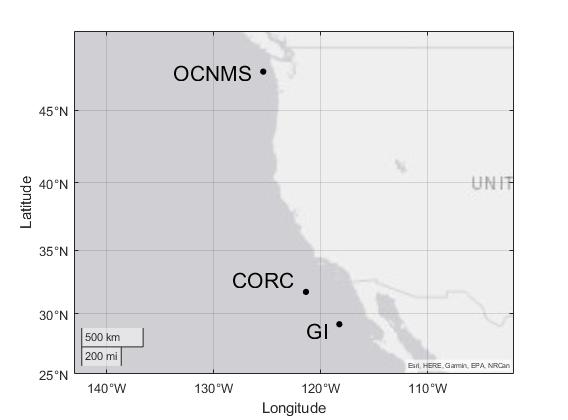
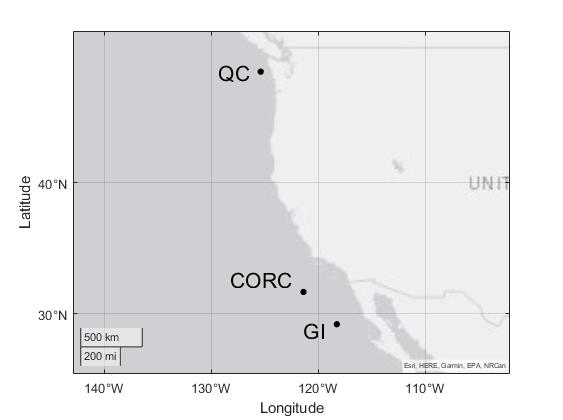
Changed QC abbrev in site map and updated Sum code for QC

diff --git a/SumPPICIBin_preR_step2.m b/SumPPICIBin_preR_step2.m
@@ -2,12 +2,12 @@ clearvars
 close all
 
 %% Parameters defined by user
-filePrefix = 'Saipan'; % File name to match. 
-siteabrev = 'SAP'; %abbreviation of site.
+filePrefix = 'OCNMS06QC'; % File name to match. 
+siteabrev = 'QC'; %abbreviation of site.
 sp = 'Pm'; % your species code
 srate = 200; % sample rate
-effortXls = 'G:\My Drive\CentralPac_TPWS_metadataReduced\Saipan\Pm_Effort.xlsx'; % specify excel file with effort times
-saveDir = 'G:\My Drive\CentralPac_TPWS_metadataReduced\Saipan\Seasonality'; %specify directory to save files
+effortXls = 'G:\My Drive\CCE_TPWS_metadataReduced\QC\Pm_Effort.xlsx'; % specify excel file with effort times
+saveDir = 'G:\My Drive\CCE_TPWS_metadataReduced\QC\Seasonality'; %specify directory to save files
 %% load workspace
 load([saveDir,'\',siteabrev,'_workspace125.mat']);
 %% group data by 5min bins, days, weeks, and seasons 
@@ -94,7 +94,13 @@ if strcmp(siteabrev,'SAP');
     ge = ge/288; %proportion of data that was not ships if it were full recording effort
     dayTable.Effort_Bin(614:2380) = ge * 206; %for TIN04, 05, 06, 07, 08, and 09 5 on 2 off (7 minute cycle) -- meaning you're recording 0.714 percent of the time
     dayTable.Effort_Sec(614:2380) = dayTable.Effort_Bin(614:2380) * 5 * 60; %convert from bins into efforts in seconds per day
-        else 
+    else 
+if strcmp(siteabrev,'QC');
+    ge = dayTable.Effort_Bin(3:349); %bin effort (excluding ships but not considering duty cycle)
+    ge = ge/288; %proportion of data that was not ships if it were full recording effort
+    dayTable.Effort_Bin(3:349) = ge * 41; %for QC06 5 on 30 off (35 minute cycle) -- meaning you're recording 0.143 percent of the time
+    dayTable.Effort_Sec(3:349) = dayTable.Effort_Bin(3:349) * 5 * 60; %convert from bins into efforts in seconds per day
+    else
 dayTable.MaxEffort_Bin = ones(p,1)*(288);
       end
     end
@@ -102,6 +108,7 @@ end
 end
     end
 end 
+end
 end
 
 %two ways to account for the difference in effort..

diff --git a/sitemapHabMod.m b/sitemapHabMod.m
@@ -131,7 +131,7 @@ gm = geoscatter(latitude,longitude,A,'.','k');
 text(latitude(1),longitude(1)-1,'BD','HorizontalAlignment','right','FontSize',16);
 text(latitude(2)+0.5,longitude(2)-1,'CB','HorizontalAlignment','right','FontSize',16);
 text(latitude(3)+1,longitude(3)-1,'CORC','HorizontalAlignment','right','FontSize',16);
-text(latitude(4),longitude(4)-1,'OCNMS','HorizontalAlignment','right','FontSize',16);
+text(latitude(4),longitude(4)-1,'QC','HorizontalAlignment','right','FontSize',16);
 text(latitude(5),longitude(5)+8.5,'PT','HorizontalAlignment','right','FontSize',16);
 text(latitude(6),longitude(6)-1.5,'QN','HorizontalAlignment','right','FontSize',16);
 text(latitude(7)+3.5,longitude(7)+20,'SAIPAN','HorizontalAlignment','right','FontSize',16);
@@ -166,7 +166,7 @@ latitude = LatLongTAB.Latitude;
 longitude = LatLongTAB.Longitude;
 gm = geoscatter(latitude,longitude,A,'.','k');  
 text(latitude(3)+1,longitude(3)-1,'CORC','HorizontalAlignment','right','FontSize',16);
-text(latitude(4),longitude(4)-1,'OCNMS','HorizontalAlignment','right','FontSize',16);
+text(latitude(4),longitude(4)-1,'QC','HorizontalAlignment','right','FontSize',16);
 text(latitude(10)-0.5,longitude(10)-1,'GI','HorizontalAlignment','right','FontSize',16);
 geolimits([25 50],[-130 -115]);
 set(gcf,'Color','w');

diff --git a/SumPPICIBin_createWorkspace_step1.m b/SumPPICIBin_createWorkspace_step1.m
@@ -2,14 +2,14 @@ clearvars
 close all
 
 %% Parameters defined by user
-filePrefix = 'Saipan'; % File name to match. 
-siteabrev = 'SAP'; %abbreviation of site.
+filePrefix = 'OCNMS06QC'; % File name to match. 
+siteabrev = 'QC'; %abbreviation of site.
 sp = 'Pm'; % your species code
 itnum = '2'; % which iteration you are looking for
 srate = 200; % sample rate
-tpwsPath = 'G:\My Drive\CentralPac_TPWS_metadataReduced\Saipan\TPWS_125'; %directory of TPWS files
-effortXls = 'G:\My Drive\CentralPac_TPWS_metadataReduced\Saipan\Pm_Effort.xlsx'; % specify excel file with effort times
-saveDir = 'G:\My Drive\CentralPac_TPWS_metadataReduced\Saipan\Seasonality'; %specify directory to save files
+tpwsPath = 'G:\My Drive\CCE_TPWS_metadataReduced\QC\TPWS_125'; %directory of TPWS files
+effortXls = 'G:\My Drive\CCE_TPWS_metadataReduced\QC\Pm_Effort.xlsx'; % specify excel file with effort times
+saveDir = 'G:\My Drive\CCE_TPWS_metadataReduced\QC\Seasonality'; %specify directory to save files
 %% define subfolder that fit specified iteration
 if itnum > 1
    for id = 2: str2num(itnum) % iterate id times according to itnum

diff --git a/StackedYearlyPlots.m b/StackedYearlyPlots.m
@@ -2,13 +2,13 @@ clearvars
 close all
 
 %% Parameters defined by user
-filePrefix = 'Saipan'; % File name to match. 
-siteabrev = 'SAP'; %abbreviation of site.
-SiteName_forPlots = 'Saipan';
-saveDir = ['G:\My Drive\CentralPac_TPWS_metadataReduced\Saipan\Seasonality']; %specify directory to save and load files
+filePrefix = 'OCNMS06QC'; % File name to match. 
+siteabrev = 'QC'; %abbreviation of site.
+SiteName_forPlots = 'Quinault Canyon';
+saveDir = ['G:\My Drive\CCE_TPWS_metadataReduced\QC\SeasonalityAnalysis']; %specify directory to save and load files
 %% load workspace
 load([saveDir,'\',siteabrev,'_workspace125.mat']);
-saveDir = ['G:\My Drive\CentralPac_TPWS_metadataReduced\Saipan\Seasonality']; %specify directory to save and load files
+saveDir = ['G:\My Drive\CCE_TPWS_metadataReduced\QC\SeasonalityAnalysis']; %specify directory to save and load files
 %% group data by 5min bins, days, weeks, and seasons
 %group data by 5 minute bins
 binTable = synchronize(binData,binEffort);
